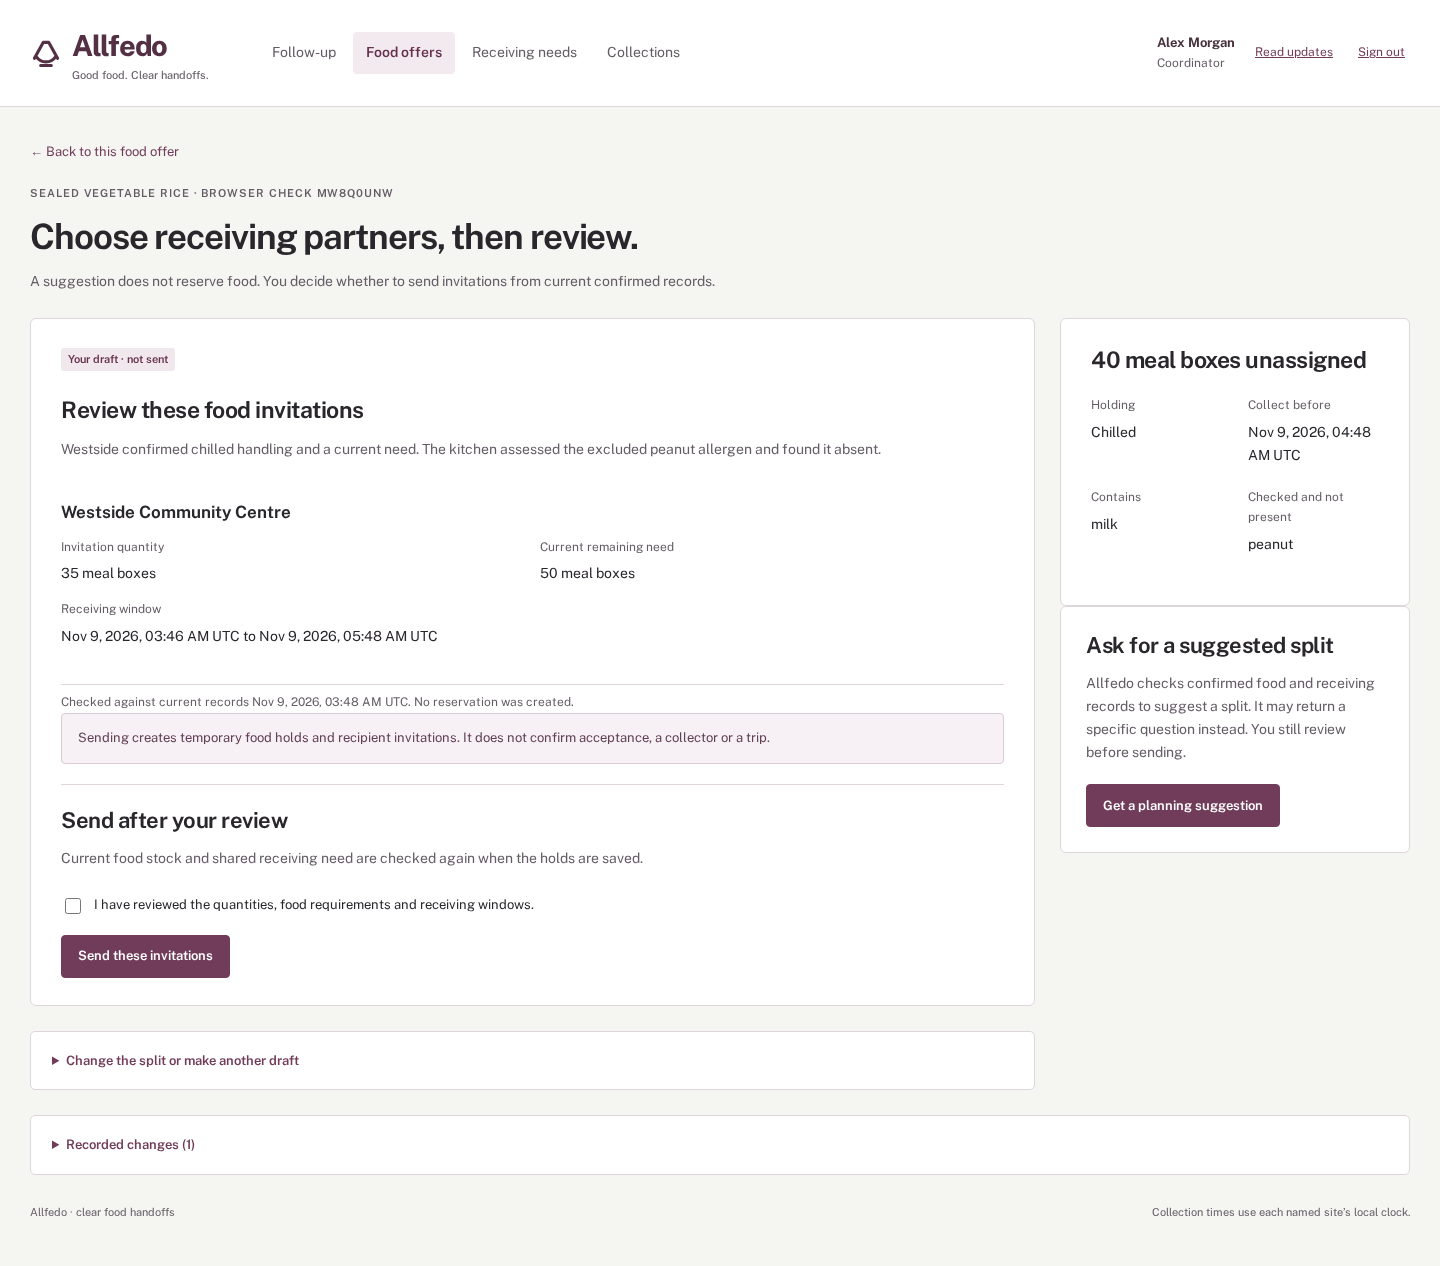
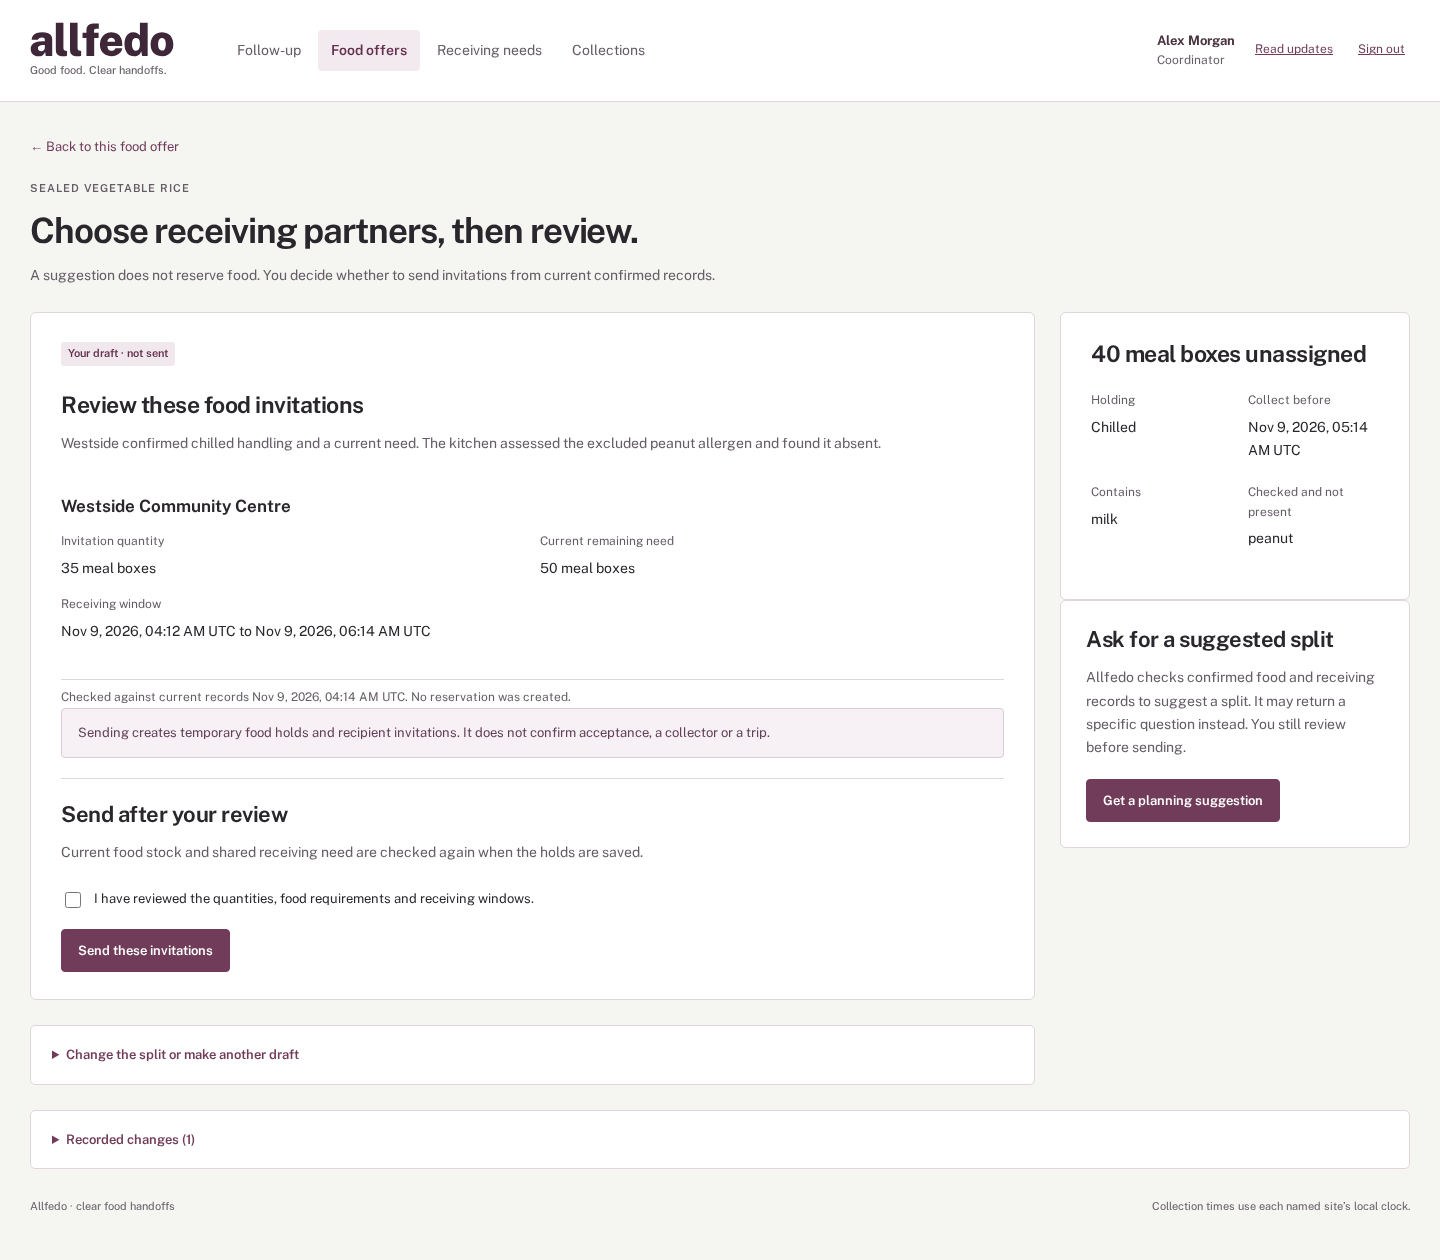
style: give Allfedo a clear wordmark and matching identity
Replace the rejected symbol with outlined lettering and a matching monogram. Refresh actual desktop and phone screens with realistic food labels, and verify the signed-in brand asset loads.

diff --git a/src/web/styles.css b/src/web/styles.css
@@ -116,20 +116,16 @@ summary:focus-visible {
 }
 
 .brand {
-  display: flex;
-  align-items: center;
-  gap: 10px;
+  display: block;
   text-decoration: none;
-  color: #543045;
-  font-size: 29px;
-  letter-spacing: -1.3px;
-  font-weight: 750;
+  color: #3d2738;
   flex: none;
 }
 
 .brand img {
-  width: 32px;
-  height: 34px;
+  display: block;
+  width: 144px;
+  height: auto;
 }
 
 .brand small {
@@ -137,7 +133,7 @@ summary:focus-visible {
   font-size: 11px;
   font-weight: 450;
   letter-spacing: 0;
-  margin-top: -4px;
+  margin-top: 4px;
   color: var(--muted);
 }
 
@@ -957,13 +953,8 @@ details > .action-form {
     padding: 18px 17px;
     gap: 12px;
   }
-  .brand {
-    font-size: 27px;
-    gap: 8px;
-  }
   .brand img {
-    width: 27px;
-    height: 29px;
+    width: 124px;
   }
   .brand small {
     display: none;

diff --git a/src/web/render.js b/src/web/render.js
@@ -146,12 +146,16 @@ export function drawing(kind) {
   return svg;
 }
 export function brand() {
-  const mark = el("img", { src: "/allfedo/assets/mark.svg", alt: "", width: 36, height: 36 });
   return el(
     "a",
-    { className: "brand", href: "#/" },
-    mark,
-    el("div", {}, "Allfedo", el("small", {}, "Good food. Clear handoffs.")),
+    { className: "brand", href: "#/", "aria-label": "Allfedo home" },
+    el("img", {
+      src: "/allfedo/assets/wordmark.svg",
+      alt: "Allfedo",
+      width: 144,
+      height: 35,
+    }),
+    el("small", {}, "Good food. Clear handoffs."),
   );
 }
 export function custody(record) {
